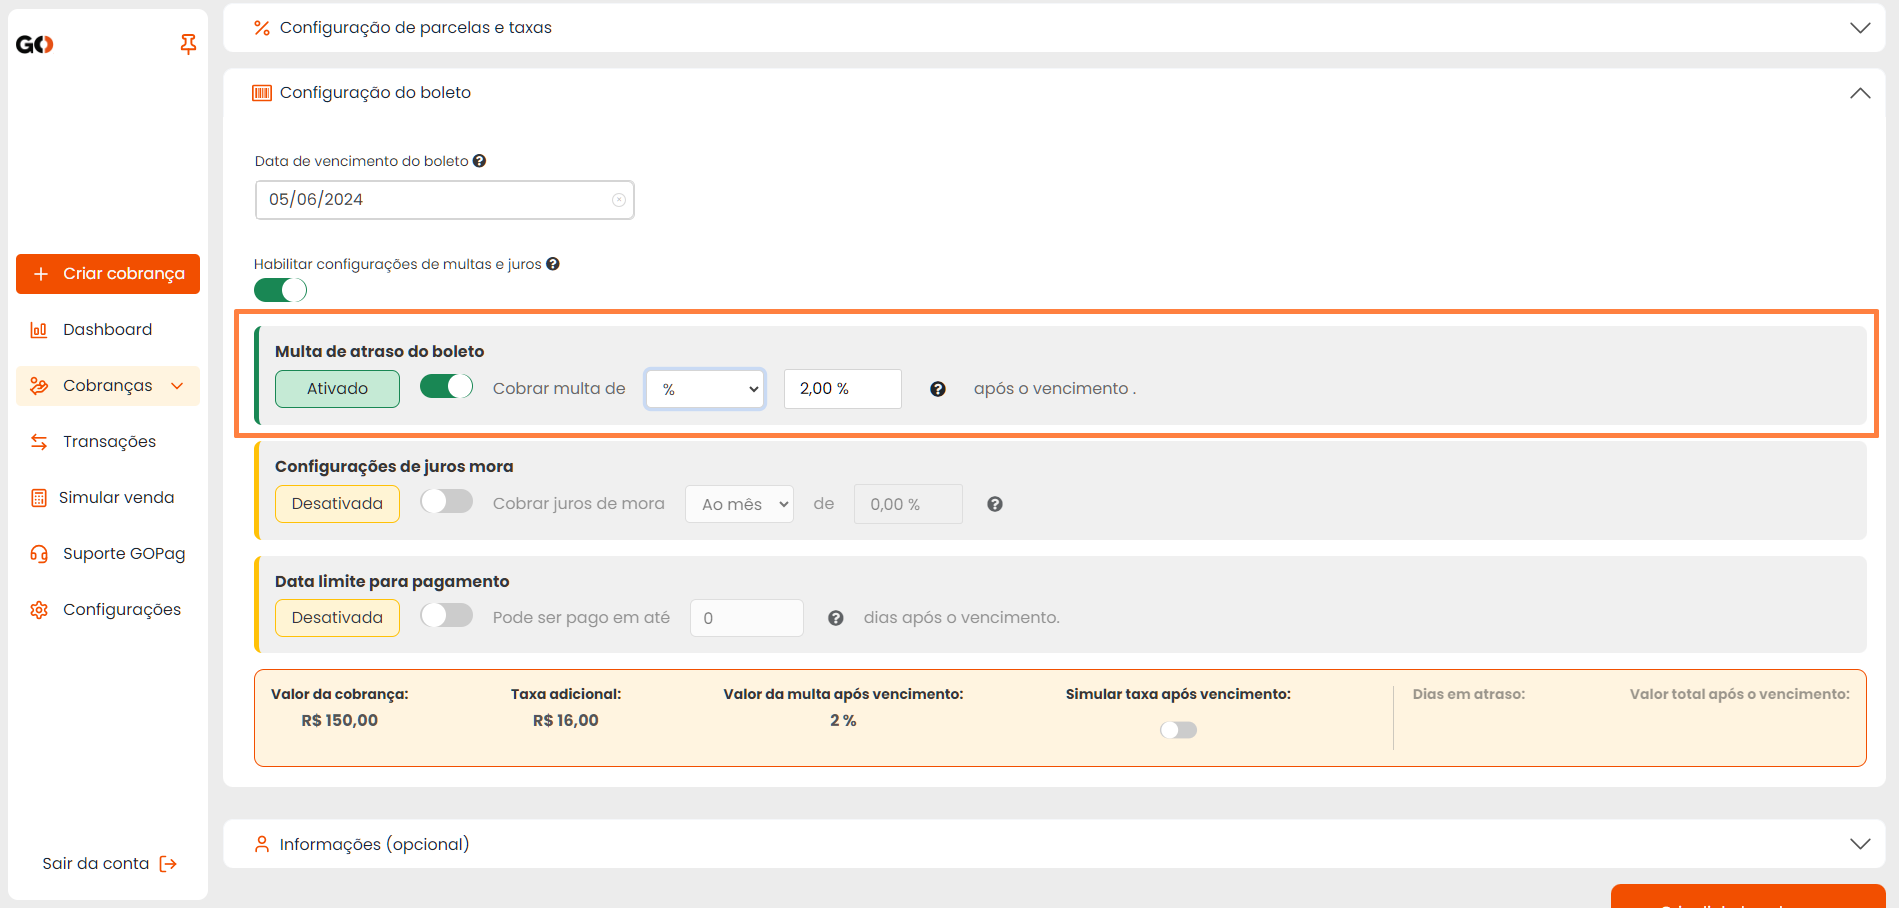
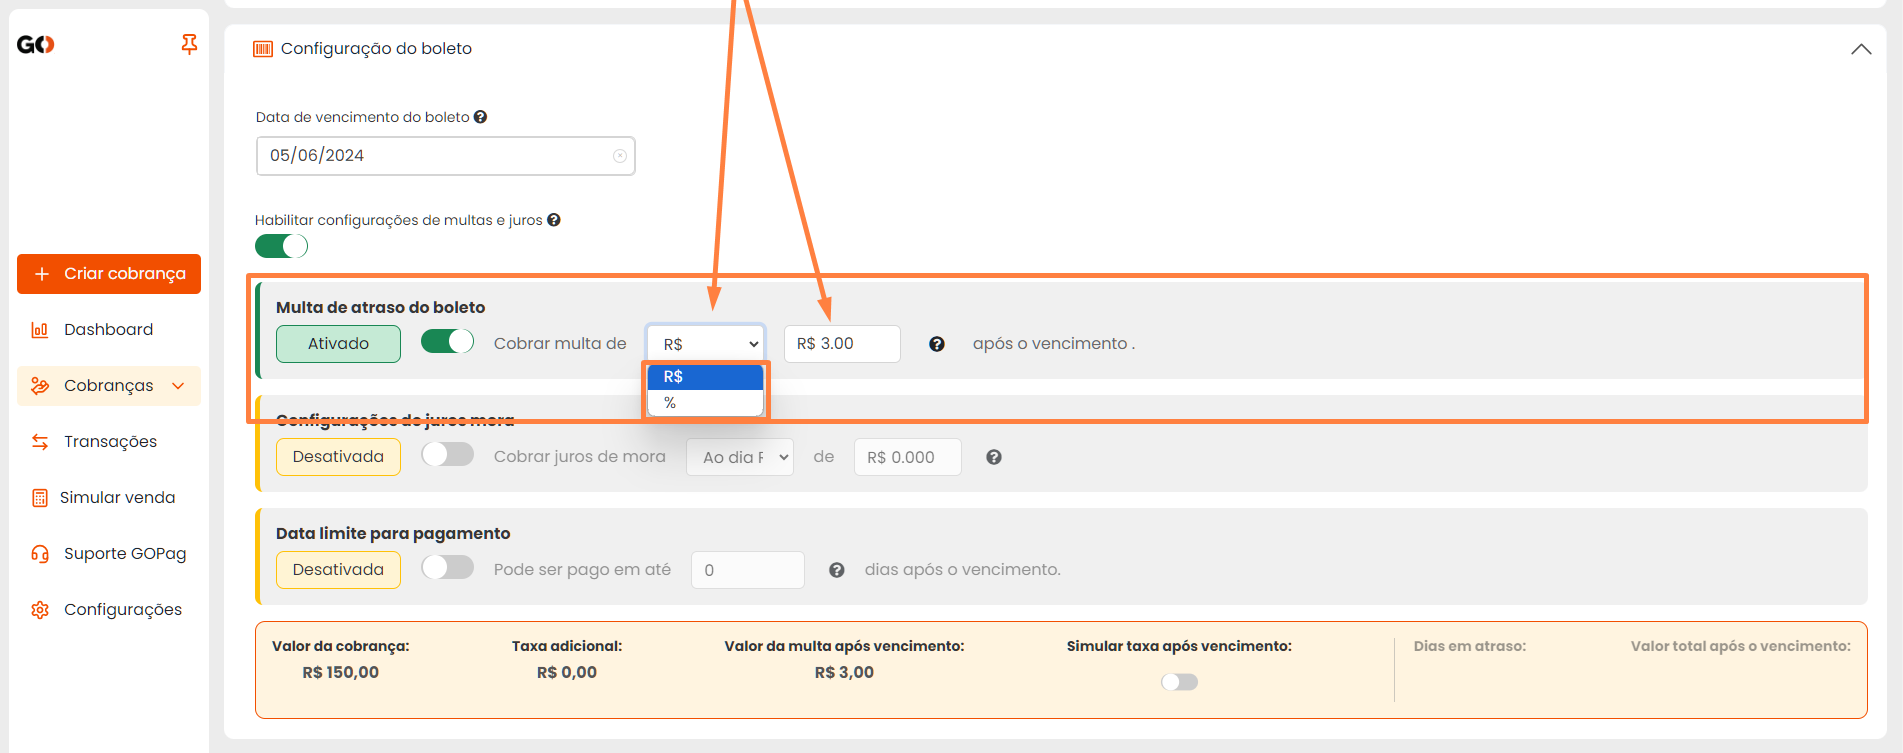
Correções BOLETO (reunião)

diff --git a/CRIAR_COBRANCA/FORMAS_PAGAMENTO/BOLETO/README.md b/CRIAR_COBRANCA/FORMAS_PAGAMENTO/BOLETO/README.md
@@ -5,29 +5,39 @@
 Na forma de pagamento Boleto Bancário, temos o prazo de compensação de até 48h, e lembrando que não tem opção de parcelamento.<br>
 
 {% hint style="warning" %}
-**Detalhe:**  Caso você tenha mais de um boleto a ser emitido, é possivel repetir essa cobrança através do menu [Criar Cobrança Novamente](https://docs.gopag.com.br/criar_cobranca/link_cobranca)
+**Detalhe:**  Caso você tenha mais de um boleto a ser emitido, é possivel repetir essa cobrança reaproveitando os dados que o cliente preencheu, através do menu [Criar Cobrança Novamente](https://docs.gopag.com.br/criar_cobranca/link_cobranca)
 {% endhint %}
 
 
 ![criar_cobranca_formas_pagamento_boleto_1](/assets/prints/criar_cobranca_formas_pagamento_boleto_1.gif)
 
+<br>
+
 <p>Observe que um novo menu de opções será mostrado:</p>
 
 ![criar_cobranca_formas_pagamento_boleto_2](/assets/prints/criar_cobranca_formas_pagamento_boleto_2.png)
 
-<p>Neste menu será possível configurar a Multa de atraso do boleto, podendo cobrar até 2% sobre o valor de pagamento em caso de atrasos:</p>
+<br>
+
+<p>Neste menu será possível configurar a Multa de atraso do boleto, podendo cobrar até 2% sobre o valor de pagamento em caso de atrasos, nós colocamos duas opções, e você define em dinheiro ou porcentagem, a plataforma corrige o valor automaticamente para você caso coloque acima do padrão de 2% estabelecido pelo Código Tributário Nacional:</p>
 
 ![criar_cobranca_formas_pagamento_boleto_3](/assets/prints/criar_cobranca_formas_pagamento_boleto_3.png)
 
-<p>Pode também configurar o Juro Mora, sendo disponível colocar 1% ao mês no máximo:</p>
+<br>
+
+<p>Pode também configurar o Juro Mora ou Moratórios que pode ser em dinheiro ou porcentagem conforme imagem abaixo. Esses Juros consistem em uma taxa aplicada sobre o atraso no pagamento de uma conta, sendo disponível colocar 1% ao mês no máximo, conforme estabelecido pelo Código Tributário Nacional:</p>
 
 ![criar_cobranca_formas_pagamento_boleto_4](/assets/prints/criar_cobranca_formas_pagamento_boleto_4.png)
 
-<p>Finalizando então com a Data Limite Para Pagamento, podendo o boleto ser pago no período que você definir ou o máximo de 90 dias:</p>
+<br>
+
+<p>Finalizando então com a Data Limite Para Pagamento, podendo o boleto ser pago no período que você definir sendo o prazo máximo de 90 dias, após isso o cliente precisará entrar em contato com você para a emissão de um novo Boleto:</p>
 
 ![criar_cobranca_formas_pagamento_boleto_5](/assets/prints/criar_cobranca_formas_pagamento_boleto_5.png)
 
-<p>Nesta parte em laranja mais claro temos um simulador de valores em caso de atraso, para que você confira o as variações de acordo com os dias de atraso:
+<br>
+
+<p>Nesta parte em laranja mais claro, temos um simulador de valores em caso de atraso, para que você confira as variações de valores de acordo com os dias de atraso:
 
 ![criar_cobranca_formas_pagamento_boleto_6](/assets/prints/criar_cobranca_formas_pagamento_boleto_6.png)
 
